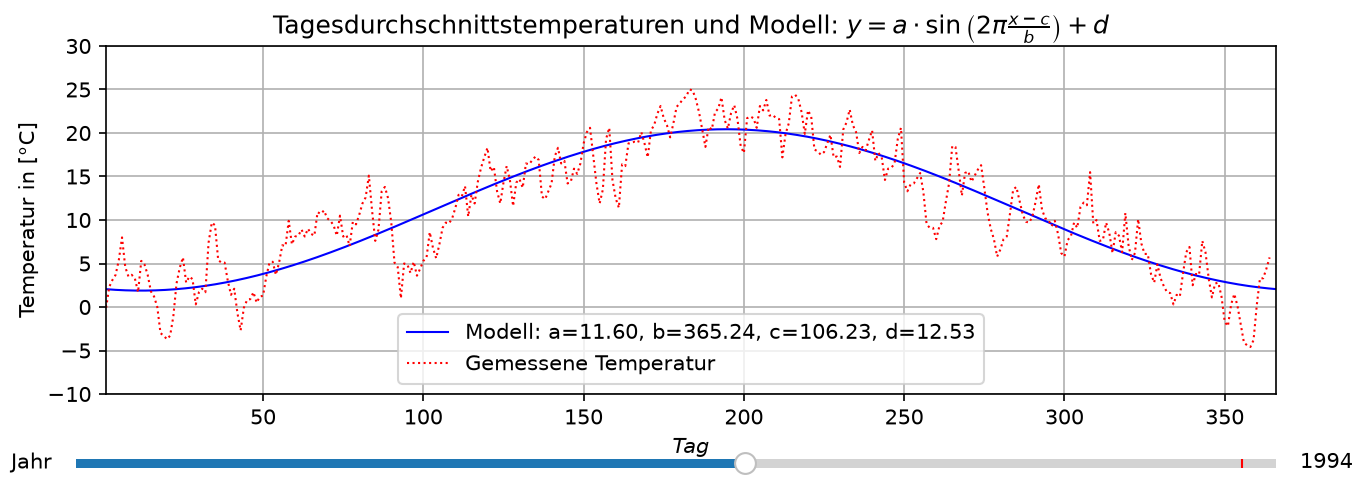
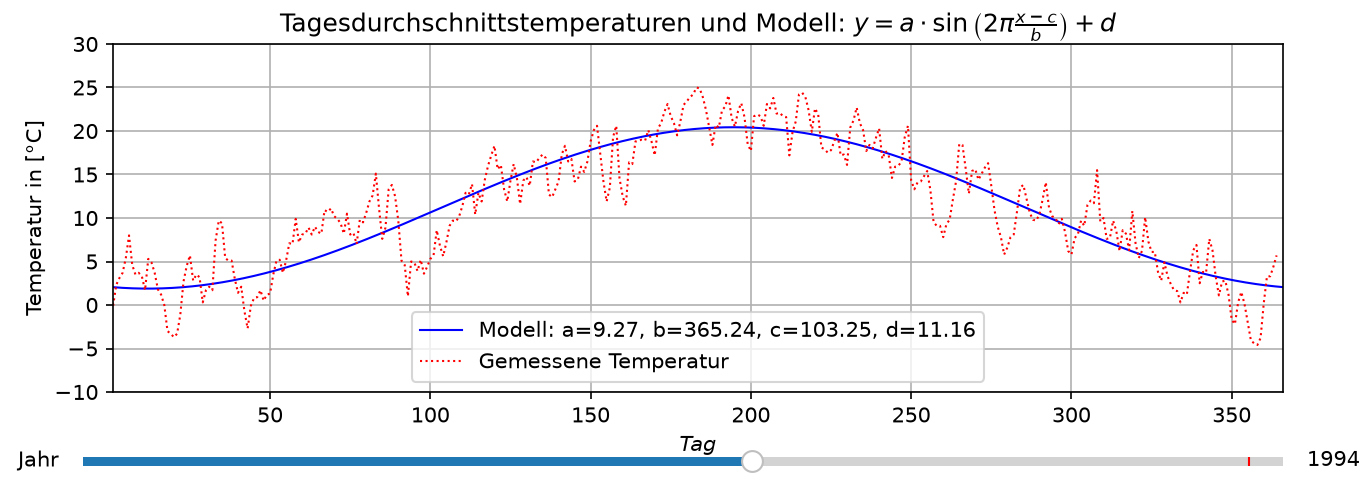
Anpassung der jahrBetrachten.py bei Temperatur und Anpassung der zwei zugehörigen Bilder

Changed region(s): [[0.0, 0.031, 0.9518, 0.8988], [0.0, 0.8988, 0.9211, 0.9917], [0.9518, 0.9298, 1.0, 0.9917]]

diff --git a/models/Temperaturmodellierung/spezifischesJahr/jahrBetrachten.py b/models/Temperaturmodellierung/spezifischesJahr/jahrBetrachten.py
@@ -66,16 +66,33 @@ xyA = plt.axes([0.1, 0.17, 0.8, 0.03])
 # Slidername=Slider()
 sldJAHR = Slider(xyA, "Jahr",   1955, 2025, valinit = STARTJAHR, valstep = 1)
 
-# Slider Update
 def update(val):
-    jahr = sldJAHR.val
+    jahr = int(sldJAHR.val)
+
     [optimales_a, optimales_b, optimales_c, optimales_d] = leseBesteParameter(jahr)
-    print([optimales_a, optimales_b, optimales_c, optimales_d])
-    y.set_data(x, f(x, optimales_a, optimales_b, optimales_c, optimales_d))
+
+    # Modell aktualisieren
+    y.set_data(
+        x,
+        f(x, optimales_a, optimales_b, optimales_c, optimales_d)
+    )
+
+    # Temperaturdaten aktualisieren
     tagestemperaturen = leseJahresdaten(jahr)
     x2 = np.arange(0, len(tagestemperaturen), 1)
-    data.set_data(x2,tagestemperaturen)
-    print(jahr)
+    data.set_data(x2, tagestemperaturen)
+
+    # Legende mit aktuellen Parametern aktualisieren
+    y.set_label(
+        f"Modell: a={optimales_a:.2f}, "
+        f"b={optimales_b:.2f}, "
+        f"c={optimales_c:.2f}, "
+        f"d={optimales_d:.2f}"
+    )
+
+    ax.legend()
+
+    fig.canvas.draw_idle()
 
 sldJAHR.on_changed(update)
 
